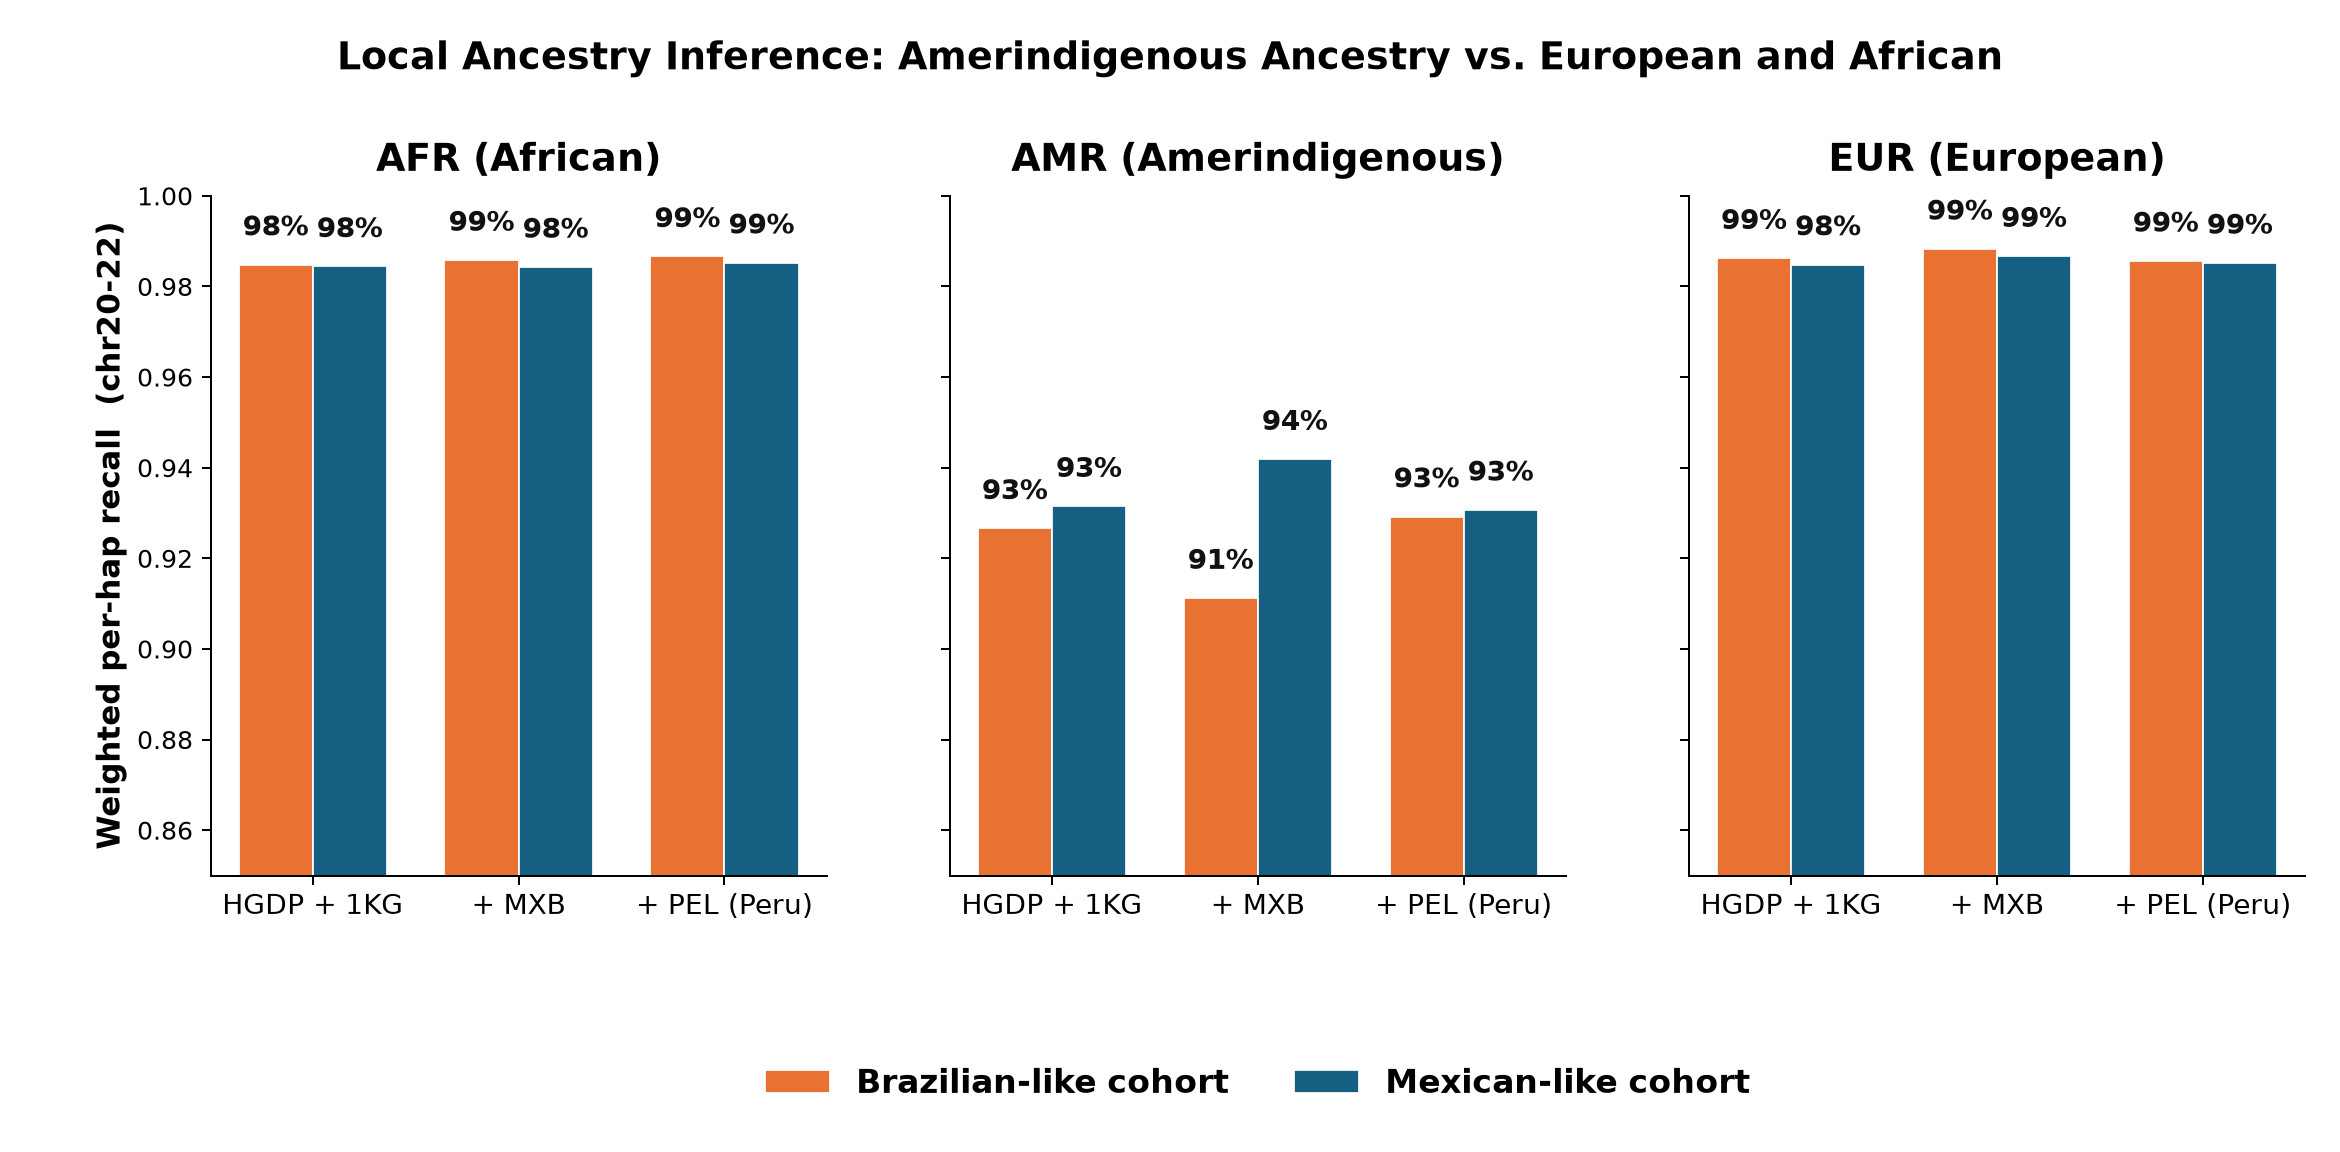
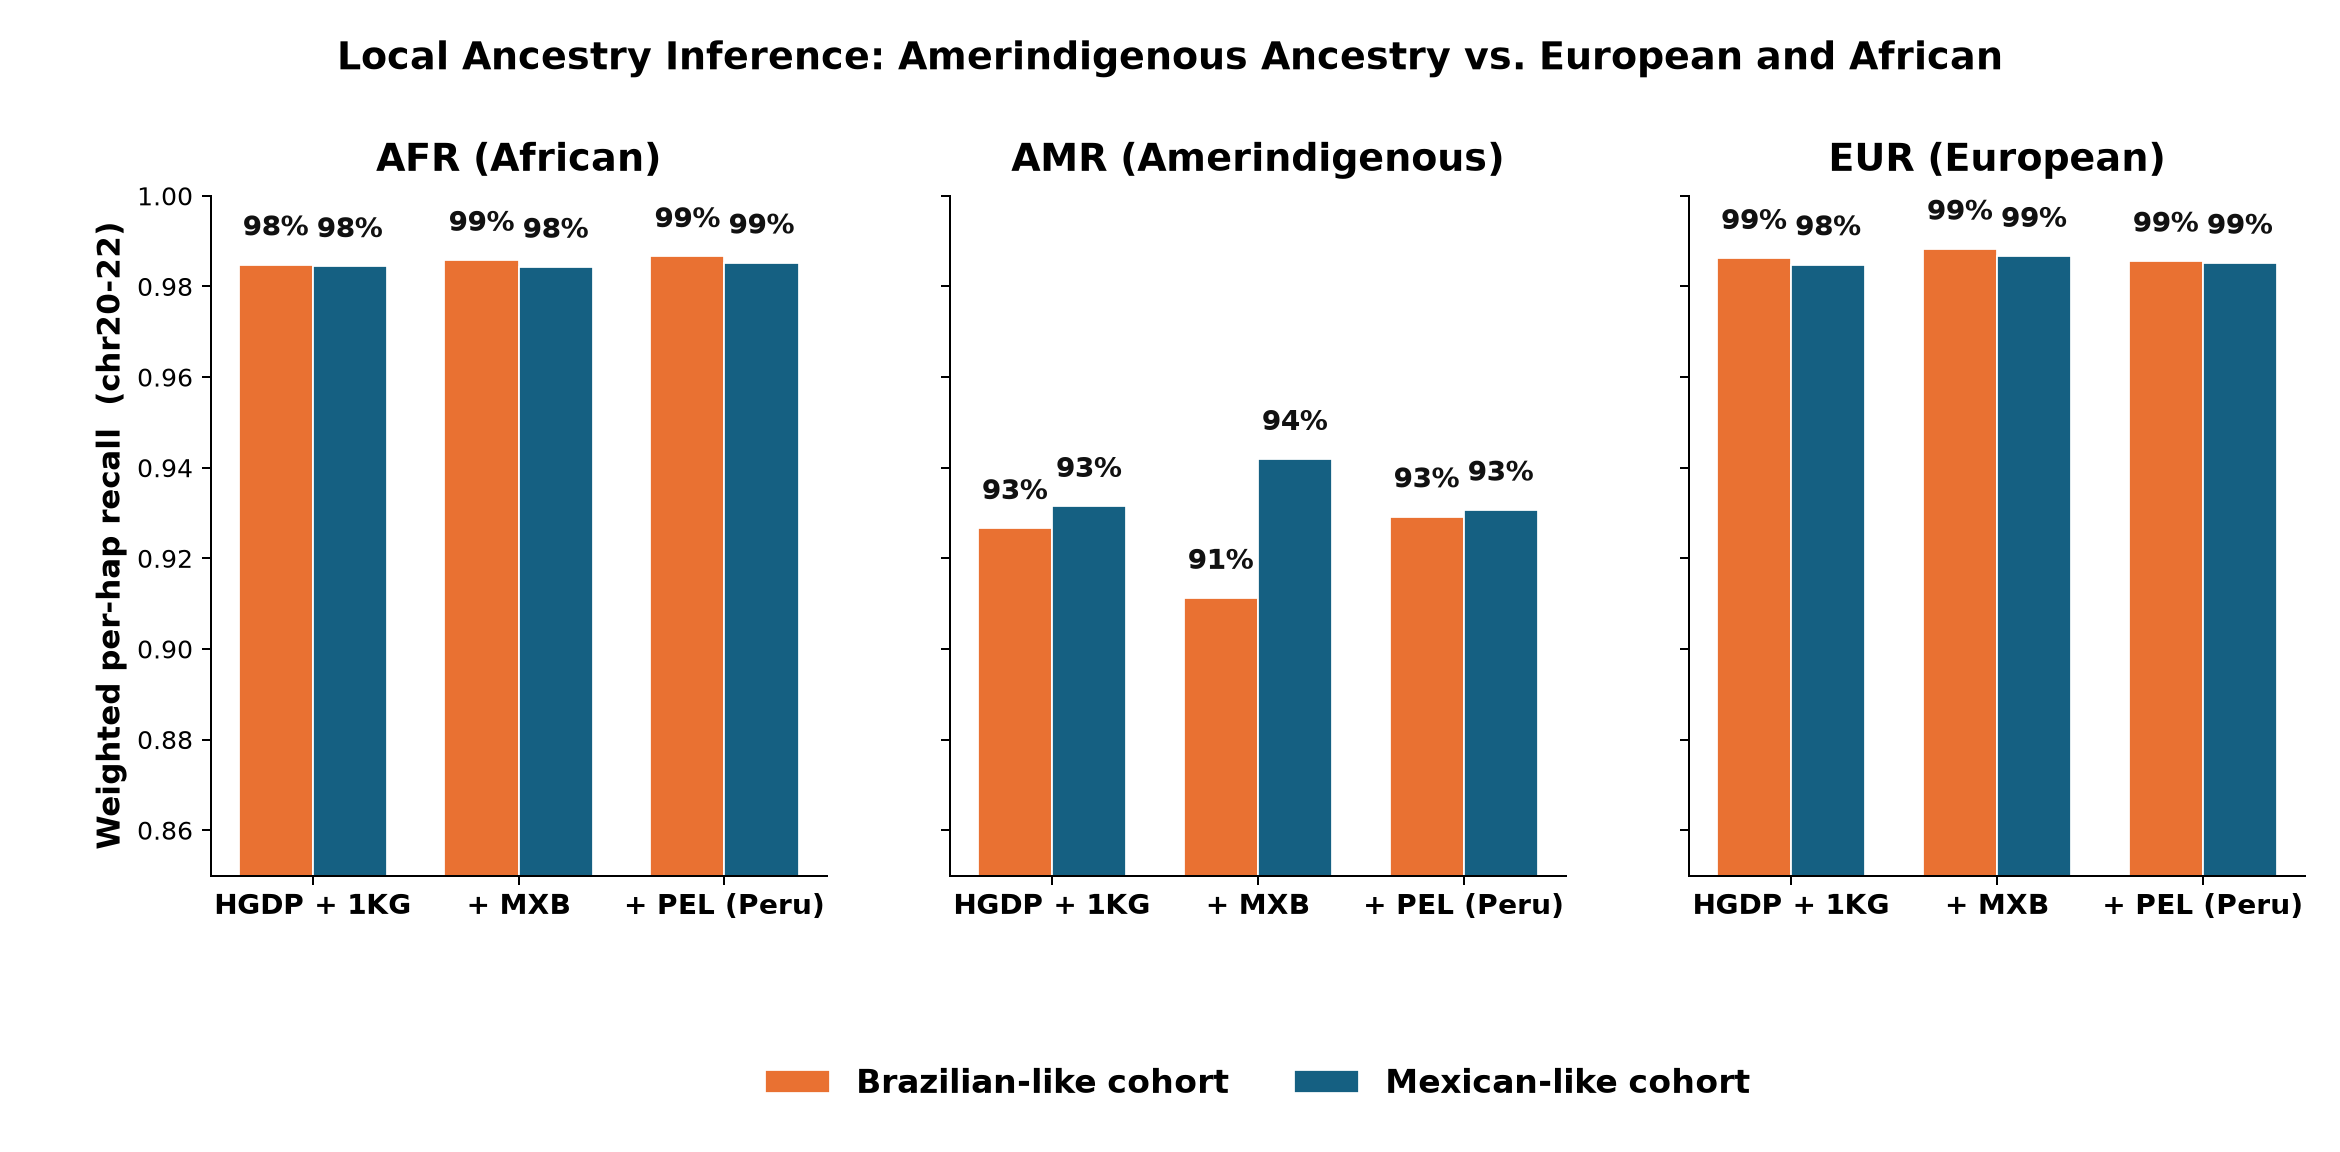
slides/figures: bold group labels, fix disparity overlap, larger chip bar labels
- fig_amr_disparity: figure widened to 13.5in and AMR bar labels
  shortened to "HGDP+1KG" / "+MXB" so they no longer collide;
  x-tick labels bold
- fig_wgs_all_ancestry: x-tick panel labels now bold
- fig_chip_vs_wgs: bar-top recall numbers bumped to 11pt bold and
  x-tick panel labels bold

Claude-Session: https://claude.ai/code/session_01Fbouf9yKVWMvU7uqqi6hid

diff --git a/slides/make_figures.py b/slides/make_figures.py
@@ -137,12 +137,15 @@ def fig_chip_vs_wgs():
     for bars, vals in ((b1, wgs_v), (b2, chip_v)):
         for xi, v in zip(bars, vals):
             if not np.isnan(v):
-                ax.text(xi.get_x() + xi.get_width()/2, v + 0.002,
-                        f"{v:.3f}", ha="center", va="bottom", fontsize=8.5)
+                ax.text(xi.get_x() + xi.get_width()/2, v + 0.003,
+                        f"{v:.3f}", ha="center", va="bottom",
+                        fontsize=11, color="#111", fontweight="bold")
 
     ax.set_xticks(x)
     ax.set_xticklabels([p.replace("NAT_", "").replace("_", "\n")
-                        for p in panels], fontsize=10)
+                        for p in panels], fontsize=11, fontweight="bold")
+    for lbl in ax.get_xticklabels():
+        lbl.set_multialignment("center")
     ax.set_ylim(0.85, 0.96)
     ax.set_ylabel("Weighted NAT-ancestry recall",
                   fontsize=12, fontweight="bold", labelpad=12)
@@ -165,13 +168,13 @@ def fig_chip_vs_wgs():
 
 # ---------------------------------------------------------------- FIG 3: gap
 def fig_amr_disparity():
-    fig = plt.figure(figsize=(12, 5.2), dpi=180)
-    gs = fig.add_gridspec(1, 2, width_ratios=[1.55, 1.0], wspace=0.28)
+    fig = plt.figure(figsize=(13.5, 5.6), dpi=180)
+    gs = fig.add_gridspec(1, 2, width_ratios=[1.65, 1.0], wspace=0.32)
 
     # left: bars, samples per continental group in public references
     ax1 = fig.add_subplot(gs[0, 0])
-    groups = ["EAS", "AFR", "EUR", "SAS", "AMR\n(HGDP+1KG)", "AMR\n+MXB (this study)"]
-    counts = [ 667,   634,   620,   48,   38,               88]
+    groups = ["EAS", "AFR", "EUR", "SAS", "AMR\nHGDP+1KG", "AMR\n+MXB"]
+    counts = [ 667,   634,   620,   48,   38,             88]
     colors = [TEAL, ORANGE, FOREST, CYAN, PLUM, PLUM]
     alphas = [1,1,1,1,0.55,1.0]
     bars = ax1.bar(groups, counts, color=colors, alpha=None)
@@ -185,7 +188,10 @@ def fig_amr_disparity():
     ax1.set_ylim(0, 760)
     ax1.set_title("Available Homogeneous Sample Counts in 1KG-HGDP-MXB",
                   loc="center", fontweight="bold", fontsize=13, pad=12)
-    ax1.tick_params(axis="x", labelsize=9.5)
+    ax1.tick_params(axis="x", labelsize=10.5, pad=6)
+    for lbl in ax1.get_xticklabels():
+        lbl.set_fontweight("bold")
+        lbl.set_multialignment("center")
 
     # right: within-AMR pie showing geographic gaps
     ax2 = fig.add_subplot(gs[0, 1])
@@ -314,7 +320,7 @@ def fig_wgs_all_ancestry():
 
         ax.set_title(anc_label, fontweight="bold", fontsize=15, pad=10)
         ax.set_xticks(x)
-        ax.set_xticklabels([lab for lab, _ in panels], fontsize=11)
+        ax.set_xticklabels([lab for lab, _ in panels], fontsize=11, fontweight="bold")
         for lbl in ax.get_xticklabels():
             lbl.set_multialignment("center")
         ax.tick_params(axis="y", labelsize=10)
